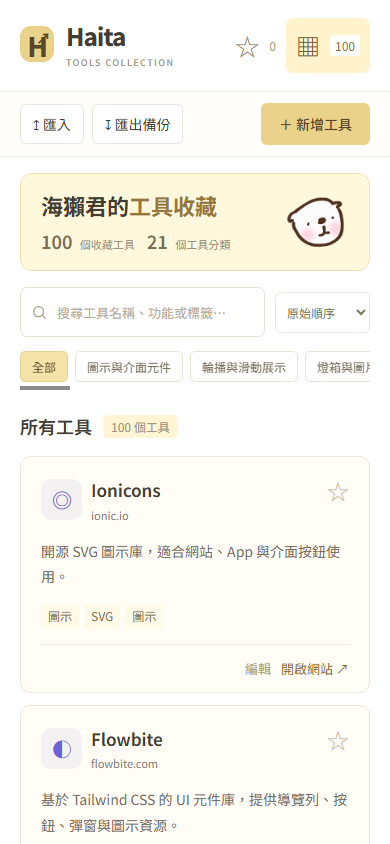
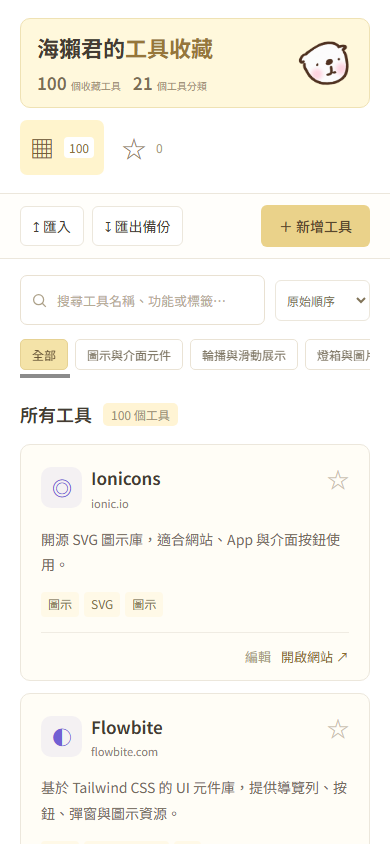
20261110

diff --git a/tool-library/dist/style.css b/tool-library/dist/style.css
@@ -1,5 +1,5 @@
 @import url('https://fonts.googleapis.com/css2?family=Noto+Sans+TC:wght@400;500;600;700;800&display=swap');
-:root{font-family:'Noto Sans TC',system-ui,sans-serif;color:#443c32;background:#ffffff;font-size:16px;--accent:#ead28a;--muted:#9e9074;--border:#ece7dc}*{box-sizing:border-box}body{margin:0}button,input,textarea,select{font:inherit}button,a,input,select,textarea{-webkit-tap-highlight-color:transparent}button,a{touch-action:manipulation}button{cursor:pointer}button:focus-visible,a:focus-visible{outline:3px solid #dac27c;outline-offset:3px}button{border:0;background:none;color:inherit}a{color:inherit;text-decoration:none}.sidebar{width:238px;position:fixed;inset:0 auto 0 0;background:#fff;border-right:1px solid var(--border);padding:35px 19px 20px;display:flex;flex-direction:column;overflow:auto}.brand{display:flex;align-items:center;gap:12px;padding:0 12px;margin-bottom:51px;font-size:26px;font-weight:800;letter-spacing:-1px}.brand-icon{position:relative;display:grid;place-items:center;width:39px;height:42px;background:var(--accent);color:white;border-radius:11px;font-size:27px}.brand-icon span{position:absolute;right:4px;top:1px;font-size:15px}.brand-sub{display:block;font-size:10px;letter-spacing:2px;font-weight:500;color:#a5987d;margin-top:3px}.nav-label{padding:0 14px;font-size:13px;letter-spacing:1px;color:#aa9d84;margin:0 0 13px}.nav-main,.category{display:flex;align-items:center;gap:12px;width:100%;text-align:left;border-radius:7px;padding:12px 13px;margin-bottom:4px;font-size:14px;color:#918265}.nav-main>span{font-size:21px}.nav-main b,.category b{margin-left:auto;font-size:13px;font-weight:400;color:#a99c83}.nav-main.active,.category.active{background:#fff4cd;color:#75603a;font-weight:600}.nav-main.active b{background:white;padding:2px 7px;border-radius:4px;color:var(--accent)}.category-label{display:flex;justify-content:space-between;margin-top:33px}.category{padding-top:11px;padding-bottom:11px;font-size:13px;gap:10px}.category>span{width:18px;text-align:center;font-size:19px;color:var(--cat-color)}.category:hover,.nav-main:hover{background:#fff9e7}.sidebar-bottom{margin-top:auto;padding:45px 13px 0;color:#9d8f72;font-size:12px}.save-dot{display:inline-block;width:6px;height:6px;background:#b6ac97;border-radius:50%;margin-right:5px}.sidebar-bottom p{font-size:13px;color:#afa38c;margin:10px 0}main{margin-left:238px}header{height:83px;border-bottom:1px solid var(--border);display:flex;align-items:center;justify-content:space-between;padding:0 44px;background:#fffefb}.breadcrumb{color:#9d8f73;font-size:13px}.breadcrumb span{padding:0 14px;color:#d1cabd}.header-actions{display:flex;gap:12px;align-items:center}.quiet{padding:9px 12px;border:1px solid var(--border);border-radius:6px;background:#fff;font-size:14px}.primary{padding:11px 18px;background:var(--accent);color:white;border-radius:6px;font-size:14px;font-weight:500}.primary:hover{background:#e2c572}.quiet:hover{background:#fff9e7}.intro{margin:40px 44px 28px;padding:31px 34px 25px;background:#fff8dc;border:1px solid #efe2b4;border-radius:12px;position:relative;overflow:hidden}.eyebrow{font-size:11px;letter-spacing:2px;font-weight:600;color:#98896b;position:relative;z-index:1}.eyebrow>span{display:inline-block;width:6px;height:6px;background:#a5987d;border-radius:50%;margin-right:7px;vertical-align:middle}h1{font-size:32px;letter-spacing:1px;margin:17px 0 10px;position:relative;z-index:1;line-height:1.5}h1 span{color:#96763a}.intro>p{font-size:14px;color:#7c715f;position:relative;z-index:1}.stats{display:flex;align-items:center;gap:18px;margin-top:27px;font-size:12px;color:#9d8f72;position:relative;z-index:1}.stats strong{font-size:21px;font-weight:600;color:#7a6e55;margin-right:5px}.stats i{height:18px;width:1px;background:#ede0c8}.collection-note{margin-left:auto;margin-right:5px;letter-spacing:1px;font-size:11px}.workspace{padding:0 44px 24px}.search-row{display:flex;align-items:center;gap:20px}.search{display:flex;align-items:center;gap:12px;height:47px;border:1px solid #e9e1d2;border-radius:7px;background:#fff;flex:1;padding:0 16px}.search:focus-within{border-color:#beb4a1;box-shadow:0 0 0 3px #f9f4eb}.search svg{width:19px;height:19px;color:#ada189}.search input{border:0;outline:0;background:transparent;width:100%;min-width:0;font-size:14px;color:#6b604b}.search input::placeholder{color:#b6ab96}.search kbd{background:#fdfbf8;border:1px solid #f6f0e3;border-radius:4px;padding:1px 6px;color:#b6ab96;font-size:13px}.sort-label{font-size:13px;color:#a79a81;white-space:nowrap;display:flex;align-items:center;gap:10px}select{background:#fff;border:1px solid var(--border);border-radius:6px;padding:10px 12px;color:#817459;font-size:14px}.filter-row{display:flex;justify-content:space-between;align-items:center;gap:15px;margin:18px 0 26px}.chips{display:flex;gap:7px;flex-wrap:wrap}.chip{font-size:12px;border:1px solid #eae3d5;border-radius:5px;padding:6px 11px;color:#776e5b;background:#fff}.chip.active{background:#ead28a;color:white;border-color:#ead28a}input[type=checkbox]{accent-color:var(--accent)}.results-heading{display:flex;justify-content:space-between;align-items:center;margin-bottom:17px}.results-heading>div{display:flex;align-items:center;gap:11px}h2{font-size:18px;margin:0;font-weight:600}.results-heading #result-count{color:#a09276;background:#fff4d4;padding:3px 8px;border-radius:5px;font-size:12px}.view-hint{font-size:12px;color:#a89b82}.grid{display:grid;grid-template-columns:repeat(3,minmax(0,1fr));gap:17px}.card{background:#fffdf6;border:1px solid var(--border);border-radius:10px;padding:21px 20px 0;display:flex;flex-direction:column;min-height:228px;transition:transform .16s,border-color .16s,box-shadow .16s}.card:hover{transform:translateY(-3px);border-color:#dccb9d;box-shadow:0 8px 22px #776b5210}.card-top{display:flex;align-items:center;gap:12px}.tool-icon{display:grid;place-items:center;width:41px;height:41px;flex-shrink:0;font-size:20px;font-weight:700;background:var(--tint);color:var(--cat-color);border-radius:10px;letter-spacing:-1px}.card-title{min-width:0;flex:1}.card-title h3{font-size:16px;margin:0 0 4px;font-weight:600;overflow-wrap:anywhere}.domain{font-size:11px;color:#8b8274;display:block;white-space:nowrap;overflow:hidden;text-overflow:ellipsis;max-width:170px}.favorite{align-self:flex-start;font-size:22px;color:#c9c0ad;padding:0 0 5px 6px;line-height:1.2}.favorite.selected{color:#a78948}.description{font-size:13px;line-height:1.9;color:#746b5e;margin:16px 0 14px;min-height:42px}.tags{display:flex;gap:5px;flex-wrap:wrap;margin-top:auto;margin-bottom:16px}.tag{font-size:11px;padding:3px 7px;background:#fff9e7;color:#83734b;border-radius:4px}.card-bottom{border-top:1px solid #f0ece3;display:flex;align-items:center;justify-content:space-between;padding:11px 0;gap:8px}.card-actions{margin-left:auto;display:flex;align-items:center;gap:12px}.edit{font-size:12px;color:#a89b81;padding:3px}.visit{font-size:12px;color:#8a6b2e}.visit:hover{text-decoration:underline}.empty{text-align:center;padding:65px 15px;color:#a79a80}.empty>span{font-size:44px}.empty h3{font-size:19px;color:#7f7258}.empty p{font-size:14px}footer{display:flex;justify-content:space-between;gap:20px;margin-top:34px;border-top:1px solid var(--border);padding-top:20px;font-size:11px;color:#b5aa95;letter-spacing:.5px}dialog{border:1px solid var(--border);border-radius:14px;padding:28px;width:min(540px,calc(100% - 32px));max-height:90vh;overflow:auto;color:#574e3d;box-shadow:0 25px 100px #4a423333}dialog::backdrop{background:#59503e55;backdrop-filter:blur(3px)}.dialog-heading{display:flex;align-items:flex-start;justify-content:space-between;margin-bottom:23px}.dialog-heading h2{font-size:25px;margin-top:9px}.icon-button{font-size:19px;color:#a29478;padding:5px}form>label{display:flex;flex-direction:column;gap:7px;font-size:14px;margin-bottom:16px}form input:not([type=checkbox]),form textarea,form select{width:100%;padding:11px 12px;border:1px solid #f1e8d5;border-radius:6px;outline:none;background:#fff;color:#645a45;font-size:15px}form input:focus,form textarea:focus{border-color:#b9af9a;box-shadow:0 0 0 3px #f9f5ed}form small{font-size:12px;color:#b2a791}form .check-label{flex-direction:row;align-items:center}.dialog-actions{display:flex;justify-content:space-between;align-items:center;border-top:1px solid var(--border);padding-top:18px;margin-top:22px}.dialog-actions>div{display:flex;gap:8px}.danger{color:#af6b5d;font-size:13px;padding:8px}.confirm-actions{display:flex;justify-content:flex-end;gap:10px;margin-top:25px}#confirm-text{font-size:15px;line-height:1.9;color:#968768}.toast{position:fixed;bottom:25px;left:calc(50% + 80px);transform:translateX(-50%) translateY(20px);background:#6c614b;color:white;border-radius:7px;padding:13px 22px;opacity:0;pointer-events:none;transition:.2s;z-index:10;max-width:90vw;font-size:14px}.toast.show{opacity:1;transform:translateX(-50%) translateY(0)}[hidden]{display:none!important}@media(min-width:1600px){.grid{grid-template-columns:repeat(4,minmax(0,1fr))}.workspace,.intro,header{max-width:1600px}}@media(max-width:1150px){.grid{grid-template-columns:repeat(2,minmax(0,1fr))}.sidebar{width:215px}main{margin-left:215px}.intro{margin:28px}.workspace,header{padding-left:28px;padding-right:28px}.collection-note{display:none}.filter-row{align-items:flex-start}.header-actions{gap:7px}.breadcrumb{font-size:12px}}@media(max-width:760px){.sidebar{position:static;width:100%;padding:18px 20px;display:block;border-right:0;border-bottom:1px solid var(--border)}.brand{margin:0;padding:0;font-size:24px;display:inline-flex}.brand-sub{font-size:9px}.brand-icon{width:34px;height:36px}.sidebar .nav-label,.sidebar nav,.sidebar-bottom{display:none}.nav-main{width:auto;float:right;margin:0;padding:10px;font-size:0;gap:5px}.nav-main>span{font-size:24px}.nav-main b{font-size:12px}.nav-main.active b{padding:2px 5px}main{margin-left:0}header{height:65px;padding:0 20px}.breadcrumb{display:none}.header-actions{width:100%;justify-content:flex-end;gap:8px}.header-actions .primary{margin-left:auto}.intro{margin:20px;padding:24px}h1{font-size:26px;letter-spacing:0}.intro>p{font-size:13px;max-width:250px;line-height:1.9}.workspace{padding:0 20px 20px}.search-row{gap:10px;align-items:stretch}.sort-label{font-size:0;gap:0}.sort-label select{max-width:107px;padding:10px 7px;font-size:12px}.search{padding:0 10px;gap:7px}.search input{font-size:13px}.search kbd{display:none}.filter-row{margin:14px 0 23px;display:block}.chips{flex-wrap:nowrap;overflow:auto;padding-bottom:8px;scrollbar-width:thin}.chip{white-space:nowrap}.grid{gap:12px}.card{padding:17px 15px 0}.tool-icon{width:34px;height:34px;font-size:18px}.card-top{gap:9px}.card-title h3{font-size:14px}.domain{max-width:120px}.description{font-size:12px}.card-actions{gap:7px}.card-bottom{gap:4px}footer{font-size:10px}.toast{left:50%;width:max-content}}@media(max-width:480px){.grid{grid-template-columns:1fr}.card{min-height:210px;padding:20px 20px 0}.card-title h3{font-size:17px}.tool-icon{width:41px;height:41px;font-size:20px}.description{font-size:14px;min-height:0}.domain{max-width:220px}.tags{margin-bottom:15px}.tag{font-size:12px}.visit,.edit{font-size:13px}h1 span{display:block}.stats{gap:13px}.stats strong{font-size:20px}footer{flex-direction:column;gap:10px}.view-hint{display:none}}
+:root{font-family:'Noto Sans TC',system-ui,sans-serif;color:#443c32;background:#ffffff;font-size:16px;--accent:#ead28a;--muted:#9e9074;--border:#ece7dc}*{box-sizing:border-box}body{margin:0}button,input,textarea,select{font:inherit}button,a,input,select,textarea{-webkit-tap-highlight-color:transparent}button,a{touch-action:manipulation}button{cursor:pointer}button:focus-visible,a:focus-visible{outline:3px solid #dac27c;outline-offset:3px}button{border:0;background:none;color:inherit}a{color:inherit;text-decoration:none}.sidebar{width:238px;position:fixed;inset:0 auto 0 0;background:#fff;border-right:1px solid var(--border);padding:35px 19px 20px;display:flex;flex-direction:column;overflow:auto}.brand{display:flex;align-items:center;gap:12px;padding:0 12px;margin-bottom:51px;font-size:26px;font-weight:800;letter-spacing:-1px}.brand-icon{position:relative;display:grid;place-items:center;width:39px;height:42px;background:var(--accent);color:white;border-radius:11px;font-size:27px}.brand-icon span{position:absolute;right:4px;top:1px;font-size:15px}.brand-sub{display:block;font-size:10px;letter-spacing:2px;font-weight:500;color:#a5987d;margin-top:3px}.nav-label{padding:0 14px;font-size:13px;letter-spacing:1px;color:#aa9d84;margin:0 0 13px}.nav-main,.category{display:flex;align-items:center;gap:12px;width:100%;text-align:left;border-radius:7px;padding:12px 13px;margin-bottom:4px;font-size:14px;color:#918265}.nav-main>span{font-size:21px}.nav-main b,.category b{margin-left:auto;font-size:13px;font-weight:400;color:#a99c83}.nav-main.active,.category.active{background:#fff4cd;color:#75603a;font-weight:600}.nav-main.active b{background:white;padding:2px 7px;border-radius:4px;color:var(--accent)}.category-label{display:flex;justify-content:space-between;margin-top:33px}.category{padding-top:11px;padding-bottom:11px;font-size:13px;gap:10px}.category>span{width:18px;text-align:center;font-size:19px;color:var(--cat-color)}.category:hover,.nav-main:hover{background:#fff9e7}.sidebar-bottom{margin-top:auto;padding:45px 13px 0;color:#9d8f72;font-size:12px;text-align:center}.save-dot{display:inline-block;width:6px;height:6px;background:#b6ac97;border-radius:50%;margin-right:5px}.sidebar-bottom p{font-size:13px;color:#afa38c;margin:10px 0}main{margin-left:238px}header{height:83px;border-bottom:1px solid var(--border);display:flex;align-items:center;justify-content:space-between;padding:0 44px;background:#fffefb}.breadcrumb{color:#9d8f73;font-size:13px}.breadcrumb span{padding:0 14px;color:#d1cabd}.header-actions{display:flex;gap:12px;align-items:center}.quiet{padding:9px 12px;border:1px solid var(--border);border-radius:6px;background:#fff;font-size:14px}.primary{padding:11px 18px;background:var(--accent);color:white;border-radius:6px;font-size:14px;font-weight:500}.primary:hover{background:#e2c572}.quiet:hover{background:#fff9e7}.intro{margin:40px 44px 28px;padding:31px 34px 25px;background:#fff8dc;border:1px solid #efe2b4;border-radius:12px;position:relative;overflow:hidden}.eyebrow{font-size:11px;letter-spacing:2px;font-weight:600;color:#98896b;position:relative;z-index:1}.eyebrow>span{display:inline-block;width:6px;height:6px;background:#a5987d;border-radius:50%;margin-right:7px;vertical-align:middle}h1{font-size:32px;letter-spacing:1px;margin:17px 0 10px;position:relative;z-index:1;line-height:1.5}h1 span{color:#96763a}.intro>p{font-size:14px;color:#7c715f;position:relative;z-index:1}.stats{display:flex;align-items:center;gap:18px;margin-top:27px;font-size:12px;color:#9d8f72;position:relative;z-index:1}.stats strong{font-size:21px;font-weight:600;color:#7a6e55;margin-right:5px}.stats i{height:18px;width:1px;background:#ede0c8}.collection-note{margin-left:auto;margin-right:5px;letter-spacing:1px;font-size:11px}.workspace{padding:0 44px 24px}.search-row{display:flex;align-items:center;gap:20px}.search{display:flex;align-items:center;gap:12px;height:47px;border:1px solid #e9e1d2;border-radius:7px;background:#fff;flex:1;padding:0 16px}.search:focus-within{border-color:#beb4a1;box-shadow:0 0 0 3px #f9f4eb}.search svg{width:19px;height:19px;color:#ada189}.search input{border:0;outline:0;background:transparent;width:100%;min-width:0;font-size:14px;color:#6b604b}.search input::placeholder{color:#b6ab96}.search kbd{background:#fdfbf8;border:1px solid #f6f0e3;border-radius:4px;padding:1px 6px;color:#b6ab96;font-size:13px}.sort-label{font-size:13px;color:#a79a81;white-space:nowrap;display:flex;align-items:center;gap:10px}select{background:#fff;border:1px solid var(--border);border-radius:6px;padding:10px 12px;color:#817459;font-size:14px}.filter-row{display:flex;justify-content:space-between;align-items:center;gap:15px;margin:18px 0 26px}.chips{display:flex;gap:7px;flex-wrap:wrap}.chip{font-size:12px;border:1px solid #eae3d5;border-radius:5px;padding:6px 11px;color:#776e5b;background:#fff}.chip.active{background:#ead28a;color:white;border-color:#ead28a}input[type=checkbox]{accent-color:var(--accent)}.results-heading{display:flex;justify-content:space-between;align-items:center;margin-bottom:17px}.results-heading>div{display:flex;align-items:center;gap:11px}h2{font-size:18px;margin:0;font-weight:600}.results-heading #result-count{color:#a09276;background:#fff4d4;padding:3px 8px;border-radius:5px;font-size:12px}.view-hint{font-size:12px;color:#a89b82}.grid{display:grid;grid-template-columns:repeat(3,minmax(0,1fr));gap:17px}.card{background:#fffdf6;border:1px solid var(--border);border-radius:10px;padding:21px 20px 0;display:flex;flex-direction:column;min-height:228px;transition:transform .16s,border-color .16s,box-shadow .16s}.card:hover{transform:translateY(-3px);border-color:#dccb9d;box-shadow:0 8px 22px #776b5210}.card-top{display:flex;align-items:center;gap:12px}.tool-icon{display:grid;place-items:center;width:41px;height:41px;flex-shrink:0;font-size:20px;font-weight:700;background:var(--tint);color:var(--cat-color);border-radius:10px;letter-spacing:-1px}.card-title{min-width:0;flex:1}.card-title h3{font-size:16px;margin:0 0 4px;font-weight:600;overflow-wrap:anywhere}.domain{font-size:11px;color:#8b8274;display:block;white-space:nowrap;overflow:hidden;text-overflow:ellipsis;max-width:170px}.favorite{align-self:flex-start;font-size:22px;color:#c9c0ad;padding:0 0 5px 6px;line-height:1.2}.favorite.selected{color:#a78948}.description{font-size:13px;line-height:1.9;color:#746b5e;margin:16px 0 14px;min-height:42px}.tags{display:flex;gap:5px;flex-wrap:wrap;margin-top:auto;margin-bottom:16px}.tag{font-size:11px;padding:3px 7px;background:#fff9e7;color:#83734b;border-radius:4px}.card-bottom{border-top:1px solid #f0ece3;display:flex;align-items:center;justify-content:space-between;padding:11px 0;gap:8px}.card-actions{margin-left:auto;display:flex;align-items:center;gap:12px}.edit{font-size:12px;color:#a89b81;padding:3px}.visit{font-size:12px;color:#8a6b2e}.visit:hover{text-decoration:underline}.empty{text-align:center;padding:65px 15px;color:#a79a80}.empty>span{font-size:44px}.empty h3{font-size:19px;color:#7f7258}.empty p{font-size:14px}footer{display:flex;justify-content:space-between;gap:20px;margin-top:34px;border-top:1px solid var(--border);padding-top:20px;font-size:11px;color:#b5aa95;letter-spacing:.5px}dialog{border:1px solid var(--border);border-radius:14px;padding:28px;width:min(540px,calc(100% - 32px));max-height:90vh;overflow:auto;color:#574e3d;box-shadow:0 25px 100px #4a423333}dialog::backdrop{background:#59503e55;backdrop-filter:blur(3px)}.dialog-heading{display:flex;align-items:flex-start;justify-content:space-between;margin-bottom:23px}.dialog-heading h2{font-size:25px;margin-top:9px}.icon-button{font-size:19px;color:#a29478;padding:5px}form>label{display:flex;flex-direction:column;gap:7px;font-size:14px;margin-bottom:16px}form input:not([type=checkbox]),form textarea,form select{width:100%;padding:11px 12px;border:1px solid #f1e8d5;border-radius:6px;outline:none;background:#fff;color:#645a45;font-size:15px}form input:focus,form textarea:focus{border-color:#b9af9a;box-shadow:0 0 0 3px #f9f5ed}form small{font-size:12px;color:#b2a791}form .check-label{flex-direction:row;align-items:center}.dialog-actions{display:flex;justify-content:space-between;align-items:center;border-top:1px solid var(--border);padding-top:18px;margin-top:22px}.dialog-actions>div{display:flex;gap:8px}.danger{color:#af6b5d;font-size:13px;padding:8px}.confirm-actions{display:flex;justify-content:flex-end;gap:10px;margin-top:25px}#confirm-text{font-size:15px;line-height:1.9;color:#968768}.toast{position:fixed;bottom:25px;left:calc(50% + 80px);transform:translateX(-50%) translateY(20px);background:#6c614b;color:white;border-radius:7px;padding:13px 22px;opacity:0;pointer-events:none;transition:.2s;z-index:10;max-width:90vw;font-size:14px}.toast.show{opacity:1;transform:translateX(-50%) translateY(0)}[hidden]{display:none!important}@media(min-width:1600px){.grid{grid-template-columns:repeat(4,minmax(0,1fr))}.workspace,.intro,header{max-width:1600px}}@media(max-width:1150px){.grid{grid-template-columns:repeat(2,minmax(0,1fr))}.sidebar{width:215px}main{margin-left:215px}.intro{margin:28px}.workspace,header{padding-left:28px;padding-right:28px}.collection-note{display:none}.filter-row{align-items:flex-start}.header-actions{gap:7px}.breadcrumb{font-size:12px}}@media(max-width:760px){.sidebar{position:static;width:100%;padding:18px 20px;display:block;border-right:0;border-bottom:1px solid var(--border)}.brand{margin:0;padding:0;font-size:24px;display:inline-flex}.brand-sub{font-size:9px}.brand-icon{width:34px;height:36px}.sidebar .nav-label,.sidebar nav,.sidebar-bottom{display:none}.nav-main{width:auto;float:right;margin:0;padding:10px;font-size:0;gap:5px}.nav-main>span{font-size:24px}.nav-main b{font-size:12px}.nav-main.active b{padding:2px 5px}main{margin-left:0}header{height:65px;padding:0 20px}.breadcrumb{display:none}.header-actions{width:100%;justify-content:flex-end;gap:8px}.header-actions .primary{margin-left:auto}.intro{margin:20px;padding:24px}h1{font-size:26px;letter-spacing:0}.intro>p{font-size:13px;max-width:250px;line-height:1.9}.workspace{padding:0 20px 20px}.search-row{gap:10px;align-items:stretch}.sort-label{font-size:0;gap:0}.sort-label select{max-width:107px;padding:10px 7px;font-size:12px}.search{padding:0 10px;gap:7px}.search input{font-size:13px}.search kbd{display:none}.filter-row{margin:14px 0 23px;display:block}.chips{flex-wrap:nowrap;overflow:auto;padding-bottom:8px;scrollbar-width:thin}.chip{white-space:nowrap}.grid{gap:12px}.card{padding:17px 15px 0}.tool-icon{width:34px;height:34px;font-size:18px}.card-top{gap:9px}.card-title h3{font-size:14px}.domain{max-width:120px}.description{font-size:12px}.card-actions{gap:7px}.card-bottom{gap:4px}footer{font-size:10px}.toast{left:50%;width:max-content}}@media(max-width:480px){.grid{grid-template-columns:1fr}.card{min-height:210px;padding:20px 20px 0}.card-title h3{font-size:17px}.tool-icon{width:41px;height:41px;font-size:20px}.description{font-size:14px;min-height:0}.domain{max-width:220px}.tags{margin-bottom:15px}.tag{font-size:12px}.visit,.edit{font-size:13px}h1 span{display:block}.stats{gap:13px}.stats strong{font-size:20px}footer{flex-direction:column;gap:10px}.view-hint{display:none}}
 
 /* A friendly mascot and slightly larger, more readable type. */
 h1,.intro>.eyebrow,.intro>p{padding-right:180px}.otter-mascot{position:absolute;right:35px;top:22px;width:160px;height:160px;object-fit:contain;pointer-events:none}.card-title h3{line-height:1.5}.description{line-height:1.85}.tag{line-height:1.55}.search{height:50px}@media(max-width:760px){h1,.intro>.eyebrow,.intro>p{padding-right:0}.intro h1{max-width:calc(100% - 100px)}.otter-mascot{width:110px;height:110px;right:12px;top:53px}.intro>p{max-width:none;margin-top:25px}}@media(min-width:481px) and (max-width:760px){.intro h1{max-width:calc(100% - 125px)}.otter-mascot{top:24px}}
@@ -8,5 +8,15 @@ h1,.intro>.eyebrow,.intro>p{padding-right:180px}.otter-mascot{position:absolute;
 /* White canvas with soft butter-yellow accents. */
 .primary,.brand-icon{color:#59472c}.chip.active{color:#59472c;background:#f4e3a8;border-color:#e6d294}.nav-main.active b{color:#8b7138}.primary:hover{background:#e2c572}.toast{background:#6e5d3e;color:#fff}.favorite.selected{color:#b18a32}
 
-/* Compact collection heading: title, counts and mascot only. */
-.intro{display:grid;grid-template-columns:minmax(0,1fr) 88px;column-gap:24px;row-gap:8px;align-items:center;margin:24px 44px 20px;padding:18px 26px}.intro h1{grid-area:1/1;margin:0;padding:0;font-size:28px;line-height:1.4;max-width:none}.intro h1 span{display:inline}.intro .stats{grid-area:2/1;margin:0;flex-wrap:wrap;gap:6px 16px}.intro .stats>span{white-space:nowrap}.intro .otter-mascot{grid-area:1/2/3/3;position:static;width:88px;height:88px}@media(max-width:1150px){.intro{margin:20px 28px 18px}}@media(max-width:760px){.intro{grid-template-columns:minmax(0,1fr) 64px;column-gap:14px;margin:16px 20px;padding:16px 20px;row-gap:6px}.intro h1{font-size:22px;max-width:none}.intro .otter-mascot{width:64px;height:64px}.intro .stats{font-size:11px;gap:5px 12px}.intro .stats strong{font-size:18px}.intro .stats i{display:none}}@media(max-width:360px){.intro{grid-template-columns:minmax(0,1fr) 56px;padding:14px 16px;column-gap:10px}.intro h1{font-size:20px}.intro .otter-mascot{width:56px;height:56px}}
+/* Collection identity in the sidebar brand position. */
+.sidebar .brand.intro{display:grid;grid-template-columns:minmax(0,1fr) 44px;gap:10px 8px;align-items:center;margin:0 0 28px;padding:12px 10px;background:#fff8dc;border:1px solid #efe2b4;border-radius:10px;letter-spacing:0;flex-shrink:0}
+.sidebar .intro h1{grid-area:1/1;margin:0;padding:0;max-width:none;font-size:18px;line-height:1.5;letter-spacing:0}
+.sidebar .intro h1 span{display:block}
+.sidebar .intro .otter-mascot{grid-area:1/2;position:static;width:44px;height:44px;object-fit:contain}
+.sidebar .intro .stats{grid-area:2/1/3/3;display:flex;justify-content:space-between;gap:4px;margin:0;font-size:9px;font-weight:400;letter-spacing:0;white-space:nowrap}
+.sidebar .intro .stats strong{font-size:16px;margin-right:2px}
+.sidebar .intro .stats i{height:14px;flex-shrink:0}
+.workspace{padding-top:24px}
+@media(max-width:1150px) and (min-width:761px){.sidebar .brand.intro{padding:10px 8px;column-gap:4px;grid-template-columns:minmax(0,1fr) 38px}.sidebar .intro h1{font-size:17px}.sidebar .intro .otter-mascot{width:38px;height:38px}.sidebar .intro .stats{font-size:8px}.sidebar .intro .stats strong{font-size:15px}}
+@media(max-width:760px){.sidebar{display:flex;flex-direction:row;flex-wrap:wrap;gap:8px}.sidebar .brand.intro{width:100%;grid-template-columns:minmax(0,1fr) 56px;gap:6px 14px;margin:0 0 4px;padding:12px 16px}.sidebar .intro h1{font-size:22px}.sidebar .intro h1 span{display:inline}.sidebar .intro .otter-mascot{grid-area:1/2/3/3;width:56px;height:56px}.sidebar .intro .stats{grid-area:2/1;justify-content:flex-start;flex-wrap:wrap;gap:4px 12px;font-size:10px}.sidebar .intro .stats strong{font-size:17px}.sidebar .intro .stats i{display:none}.nav-main{float:none}.workspace{padding-top:16px}}
+@media(max-width:360px){.sidebar .brand.intro{padding:12px;column-gap:8px;grid-template-columns:minmax(0,1fr) 44px}.sidebar .intro h1{font-size:19px}.sidebar .intro .otter-mascot{width:44px;height:44px}.sidebar .intro .stats{font-size:9px;gap:4px 8px}.sidebar .intro .stats strong{font-size:15px}}

diff --git a/tool-library/dist/index.html b/tool-library/dist/index.html
@@ -2,9 +2,8 @@
 <html lang="zh-Hant">
 <head><meta charset="UTF-8"><meta name="viewport" content="width=device-width,initial-scale=1"><meta name="description" content="海獺君的個人工具收藏。搜尋、分類與管理常用的網頁開發資源。"><title>海獺君的工具收藏</title><link rel="icon" href="favicon.ico?v=otter-1" sizes="16x16 32x32 48x48"><link rel="icon" type="image/png" sizes="32x32" href="assets/favicon-32.png?v=otter-1"><link rel="apple-touch-icon" sizes="180x180" href="assets/apple-touch-icon.png"><link rel="stylesheet" href="style.css"><script src="data.js" defer></script><script src="app.js" defer></script></head>
 <body>
-<aside class="sidebar"><a class="brand" href="./"><span class="brand-icon">H<span>↗</span></span><span>Haita<span class="brand-sub">TOOLS COLLECTION</span></span></a><p class="nav-label">我的工作空間</p><button class="nav-main active" id="all"><span>▦</span> 所有工具 <b id="side-count">100</b></button><button class="nav-main" id="favorites"><span>☆</span> 我的最愛 <b id="favorite-count">0</b></button><p class="nav-label category-label">依用途探索 <span id="nav-category-total">21</span></p><nav id="categories" aria-label="工具分類"></nav><div class="sidebar-bottom"><span class="save-dot"></span> 個人收藏・瀏覽器儲存<p>讓好工具，隨手可得。</p></div></aside>
+<aside class="sidebar"><a class="brand intro" href="./" aria-label="海獺君的工具收藏首頁"><h1>海獺君的<span>工具收藏</span></h1><img class="otter-mascot" src="assets/otter-face-reference.png" alt="微笑的 Q 版海獺臉" width="48" height="48"><div class="stats"><span><strong id="total">100</strong> 個收藏工具</span><i></i><span><strong id="category-total">21</strong> 個工具分類</span></div></a><p class="nav-label">我的工作空間</p><button class="nav-main active" id="all"><span>▦</span> 所有工具 <b id="side-count">100</b></button><button class="nav-main" id="favorites"><span>☆</span> 我的最愛 <b id="favorite-count">0</b></button><p class="nav-label category-label">依用途探索 <span id="nav-category-total">21</span></p><nav id="categories" aria-label="工具分類"></nav><div class="sidebar-bottom"><span class="save-dot" aria-hidden="true"></span> 最後更新<p><time id="site-updated" datetime="2026-11-10">2026.11.10</time></p></div></aside>
 <main><header><div class="breadcrumb">我的工作空間 <span>/</span> 工具收藏</div><div class="header-actions"><button class="quiet" id="import">↥ 匯入</button><button class="quiet" id="export">↧ 匯出備份</button><button class="primary" id="add">＋ 新增工具</button></div></header>
-<section class="intro"><h1>海獺君的<span>工具收藏</span></h1><img class="otter-mascot" src="assets/otter-face-reference.png" alt="微笑的 Q 版海獺臉" width="88" height="88"><div class="stats"><span><strong id="total">100</strong> 個收藏工具</span><i></i><span><strong id="category-total">21</strong> 個工具分類</span></div></section>
 <section class="workspace"><div class="search-row"><label class="search"><svg viewBox="0 0 24 24" fill="none" stroke="currentColor" stroke-width="1.8"><circle cx="10.8" cy="10.8" r="7.1"/><path d="m16 16 5 5"/></svg><input id="search" type="search" placeholder="搜尋工具名稱、功能或標籤…" aria-label="搜尋工具"><kbd>/</kbd></label><label class="sort-label">排序 <select id="sort" aria-label="排序方式"><option value="original">原始順序</option><option value="name">名稱 A → Z</option><option value="newest">最新加入</option></select></label></div><div class="filter-row"><div id="chips" class="chips"></div></div><div class="results-heading"><div><h2 id="view-title">所有工具</h2><span id="result-count"></span></div><span class="view-hint">▦ 卡片檢視</span></div><div id="grid" class="grid"></div><div id="empty" class="empty" hidden><span>⌕</span><h3>沒有找到符合的工具</h3><p>試試其他關鍵字，或新增你的第一個收藏。</p><button id="clear" class="quiet">清除篩選</button></div><footer><span>HAITA / TOOL COLLECTION</span><span>資料儲存在目前瀏覽器，記得定期匯出備份。</span></footer></section></main>
 <dialog id="editor"><form id="tool-form"><div class="dialog-heading"><div><span class="eyebrow">CURATE YOUR TOOLKIT</span><h2 id="dialog-title">新增工具</h2></div><button type="button" class="icon-button" id="close-editor" aria-label="關閉">✕</button></div><input type="hidden" id="tool-id"><label>工具名稱<input id="tool-name" required maxlength="100" placeholder="例如：Swiper"></label><label>網站網址<input id="tool-url" type="url" required maxlength="2000" placeholder="https://..."></label><label>用途分類<select id="tool-category"></select></label><label>功能簡介<textarea id="tool-description" required maxlength="1000" rows="3" placeholder="簡單記錄它能幫你做什麼…"></textarea></label><label>標籤 <small>以逗號分隔</small><input id="tool-tags" maxlength="200" placeholder="JavaScript, 輪播, 觸控"></label><label class="check-label"><input type="checkbox" id="tool-favorite"> 加入我的最愛</label><div class="dialog-actions"><button id="delete-tool" type="button" class="danger">刪除工具</button><div><button type="button" id="cancel" class="quiet">取消</button><button type="submit" class="primary">儲存工具</button></div></div></form></dialog>
 <dialog id="confirm-dialog"><h2 id="confirm-title">確認操作</h2><p id="confirm-text"></p><div class="confirm-actions"><button id="confirm-cancel" class="quiet">取消</button><button id="confirm-ok" class="primary">確認</button></div></dialog><input type="file" id="import-file" accept="application/json,.json" hidden><div id="toast" class="toast" role="status" aria-live="polite"></div>

diff --git a/tool-library/README.md b/tool-library/README.md
@@ -14,3 +14,5 @@
 - Google 字型無法連線時，自動使用系統字型。頁面其餘功能不依賴外部服務。
 
 本機程式檢查：`node --check dist/app.js`、`node --check dist/data.js`。
+
+網站每次更新時，請同步更新 `dist/index.html` 的 `#site-updated` 日期：`datetime` 使用 `YYYY-MM-DD`，顯示使用 `YYYY.MM.DD`，以 Asia/Taipei 當天日期為準。此日期記錄網站版本更新日，重新開啟頁面時維持原值。
